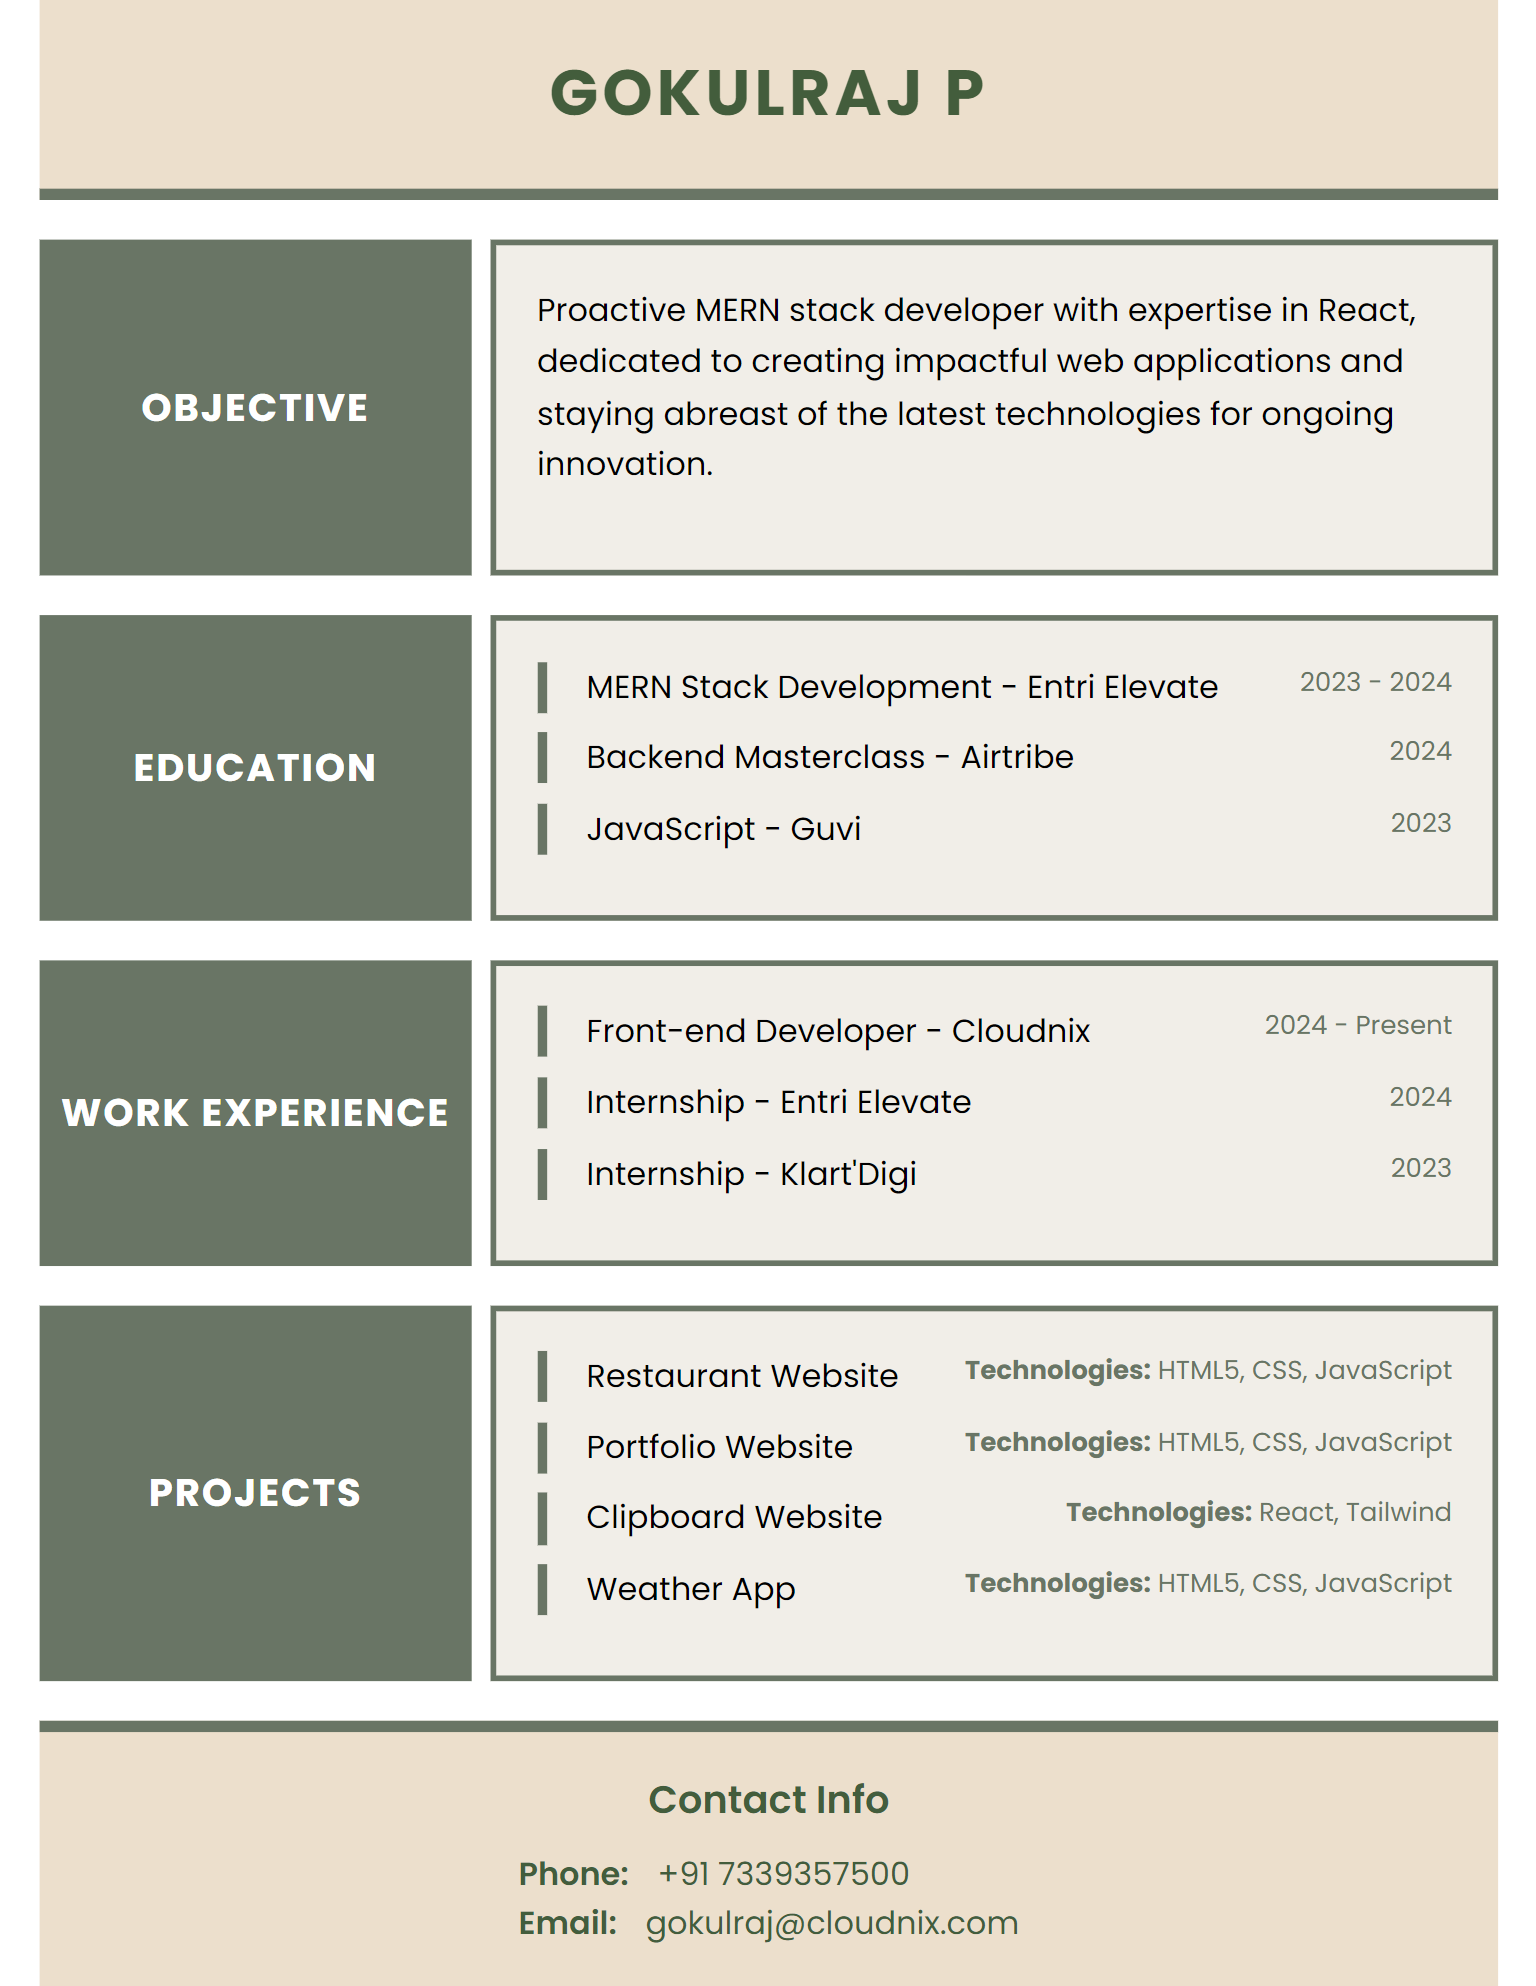
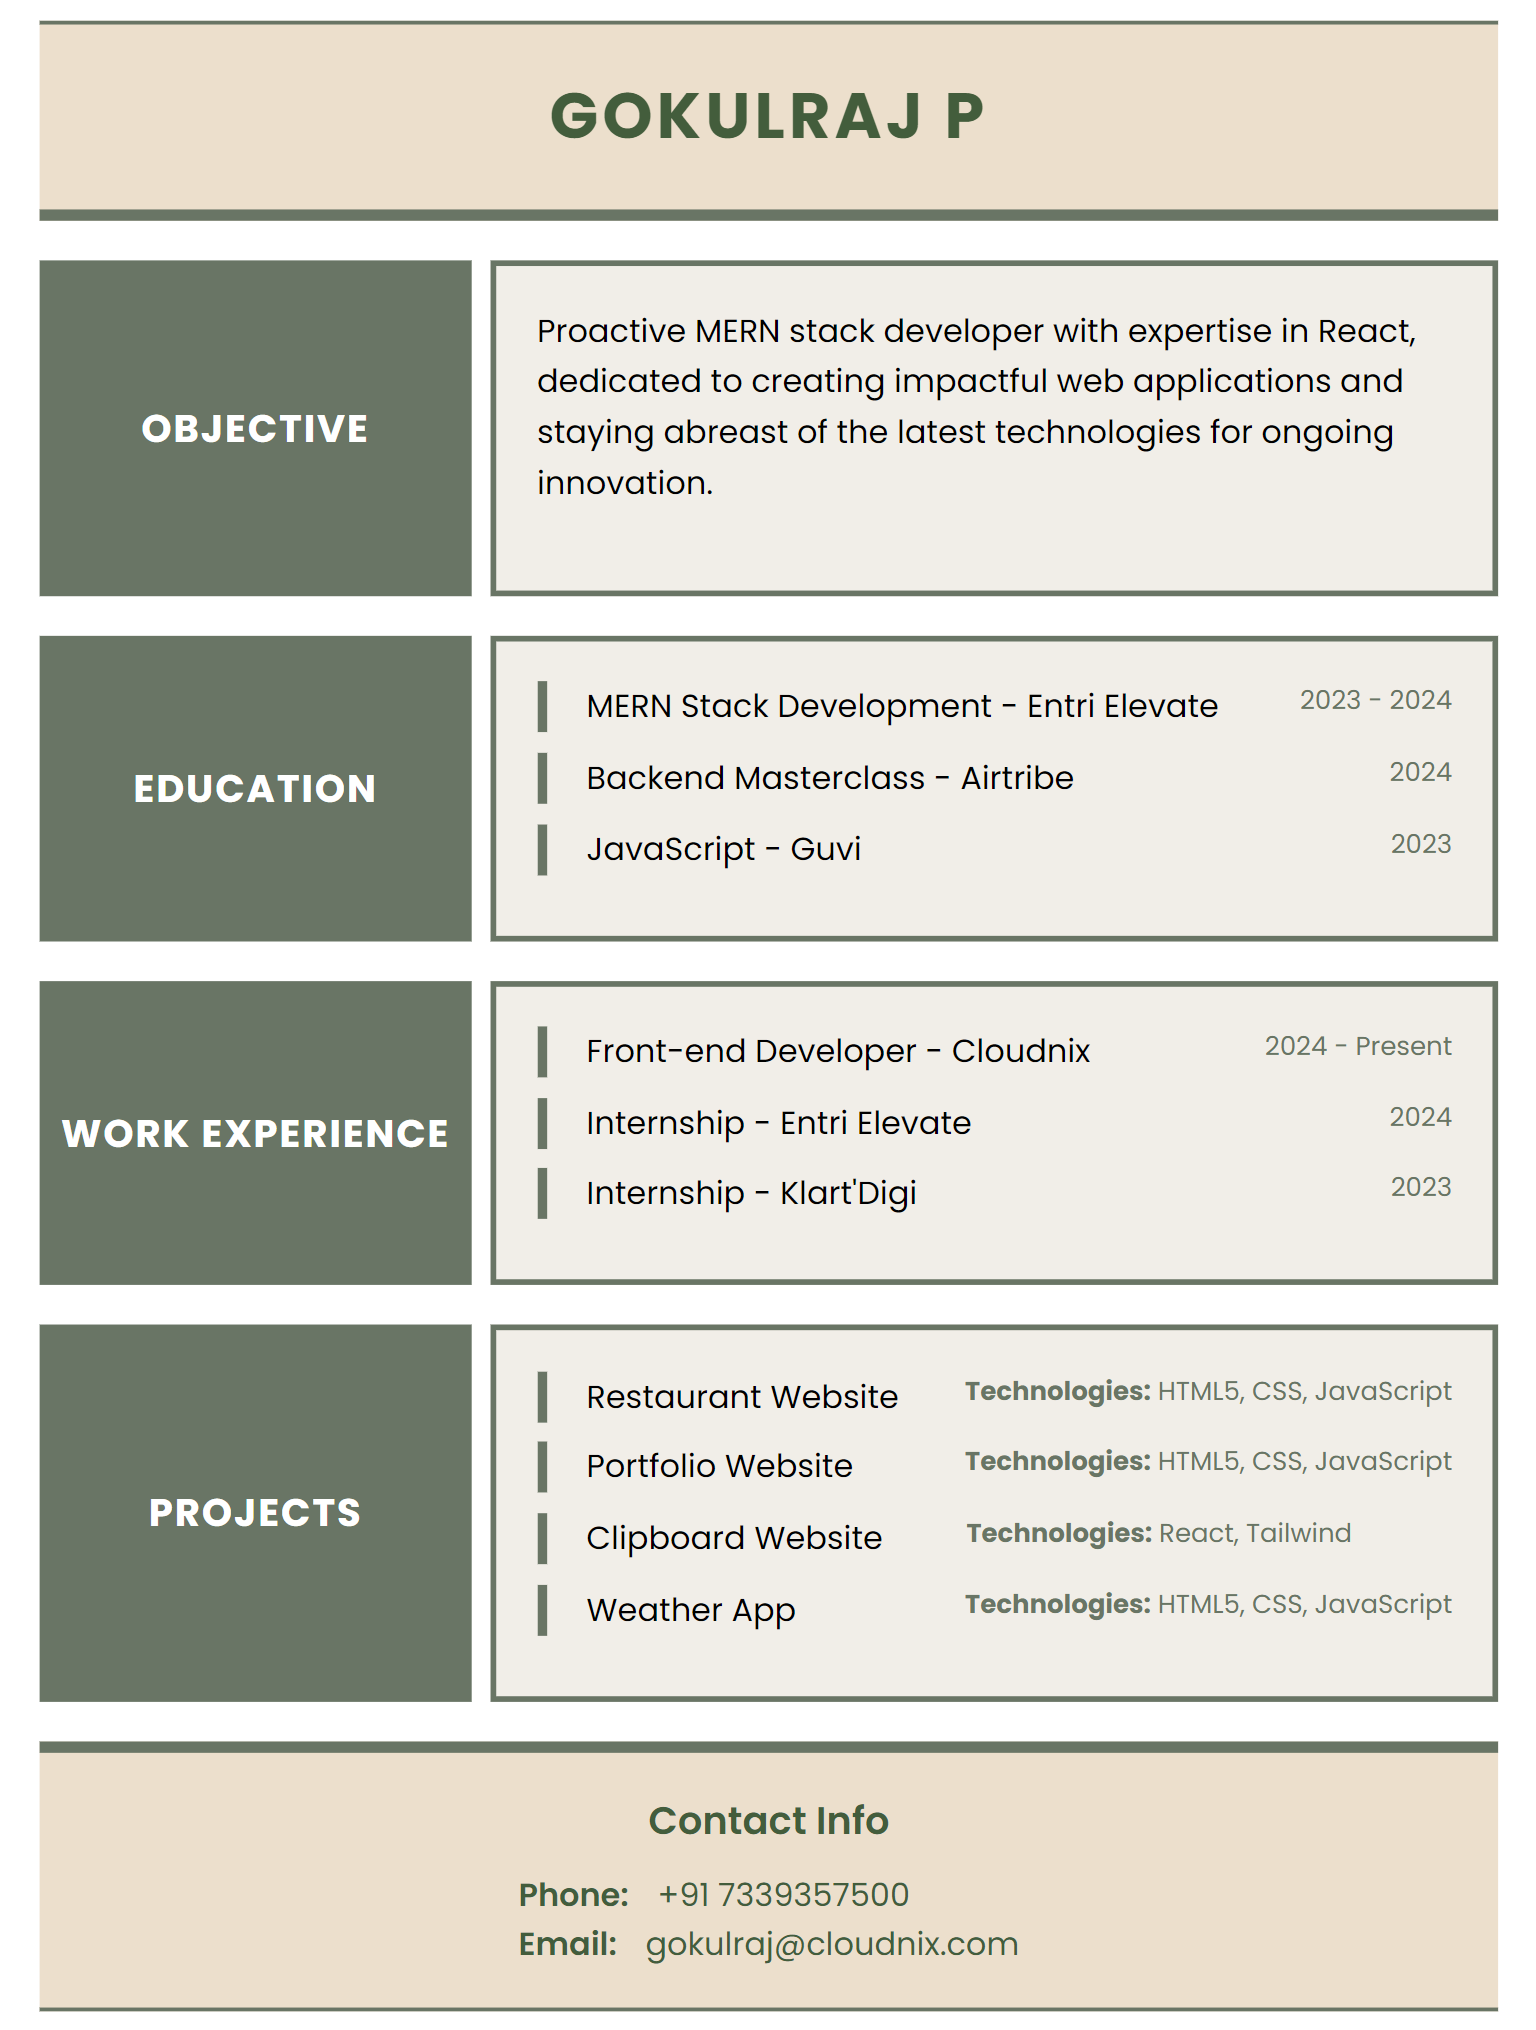
Update

diff --git a/style.css b/style.css
@@ -44,7 +44,9 @@ nav {
   align-items: center;
   justify-content: center;
   border-bottom: 6px solid var(--primary);
+  border-top: 2px solid var(--primary);
   color: var(--primary-dark);
+  margin-top: 10px;
 }
 
 nav h1 {
@@ -119,6 +121,10 @@ main {
   color: #697565;
 }
 
+.tech{
+  width: 243px;
+}
+
 li::marker {
   color: var(--primary);
 }
@@ -128,11 +134,13 @@ footer {
   background-color: var(--bg);
   padding: 20px;
   border-top: 6px solid var(--primary);
+  border-bottom: 2px solid var(--primary);
   text-align: center;
   color: var(--primary-dark);
   display: flex;
   flex-direction: column;
   align-items: center;
+  margin-bottom: 10px;
 }
 
 .footer_title {
@@ -184,6 +192,9 @@ footer {
   .year {
     font-size: 0.5rem;
   }
+  .tech{
+    width: 150px;
+  }
   .footer_title {
     font-size: 0.8rem;
   }
@@ -226,6 +237,9 @@ footer {
   }
   .year {
     font-size: 0.6rem;
+  }
+  .tech{
+    width: 180px;
   }
   .footer_title {
     font-size: 0.9rem;

diff --git a/index.html b/index.html
@@ -71,7 +71,7 @@
                                 CSS, JavaScript</span></li>
                         <li>Portfolio Website <span class="year"><span class="sub-heading">Technologies:</span> HTML5,
                                 CSS, JavaScript</span></li>
-                        <li>Clipboard Website <span class="year"><span class="sub-heading">Technologies:</span> React,
+                        <li >Clipboard Website <span class="year tech"><span class="sub-heading">Technologies:</span> React,
                                 Tailwind</span></li>
                         <li>Weather App <span class="year"><span class="sub-heading">Technologies:</span> HTML5, CSS,
                                 JavaScript</span></li>
